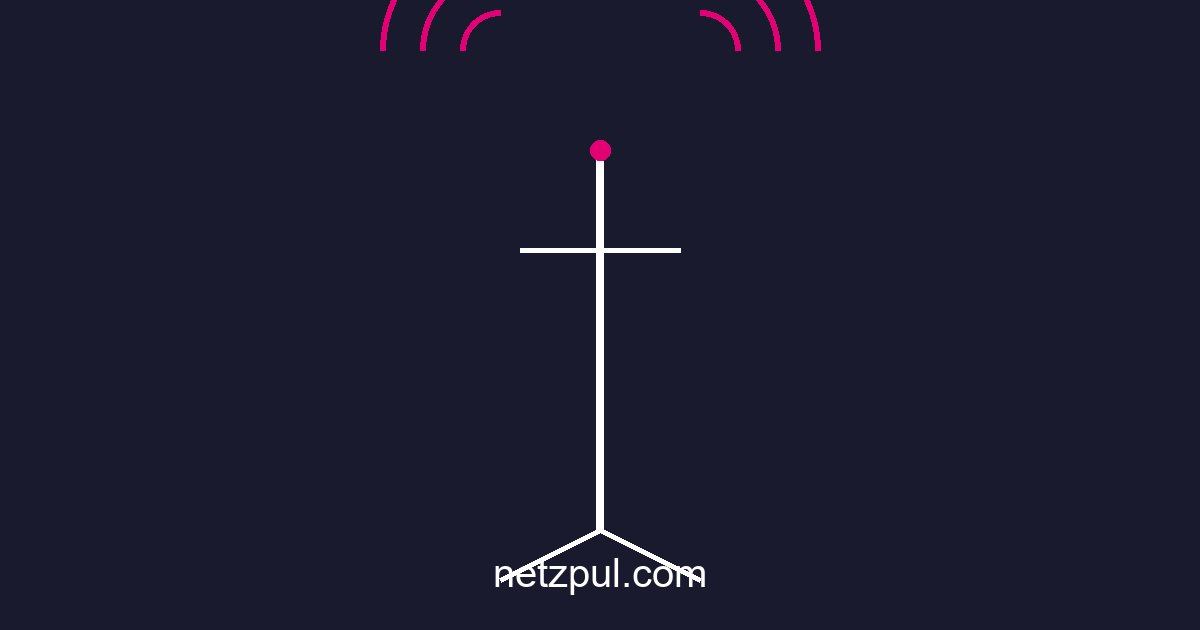
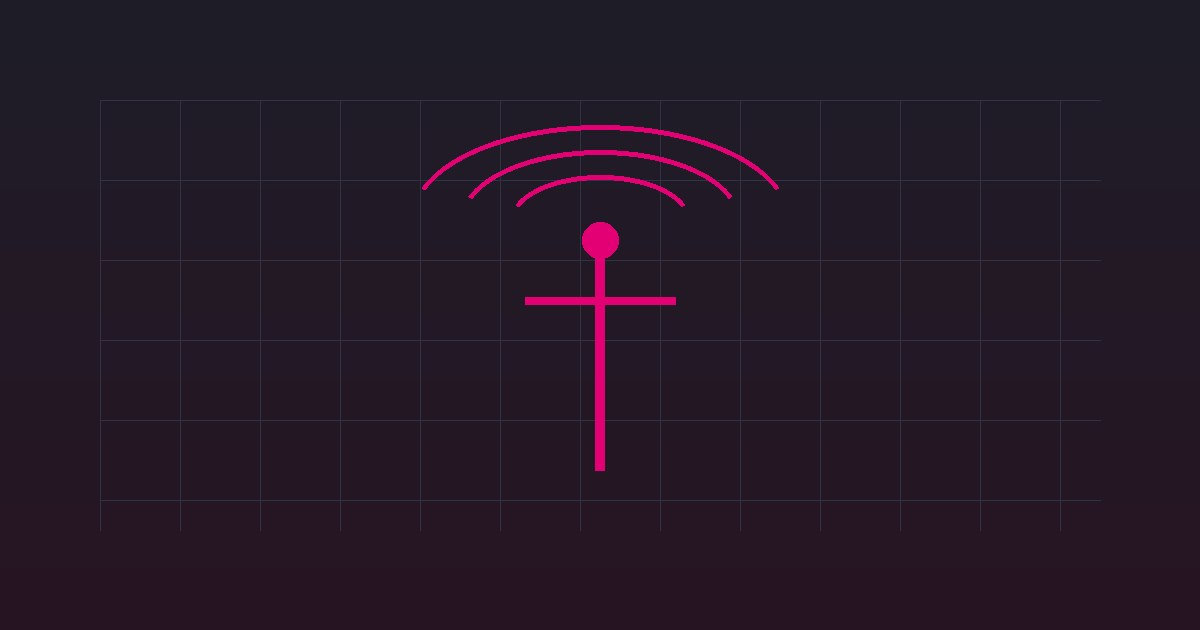
Add category-specific article images
- Generate 11 category images (cat-telekom, cat-5g-tech, cat-tarife, cat-esim, cat-prepaid, cat-o2, cat-vodafone, cat-blau, cat-tips, cat-congstar, cat-freenet)
- Update article.js: assign correct category image to each of 34 articles
- Regenerate default-article.jpg with proper network-themed design
- Fixes issue where all articles showed the same website favicon as thumbnail

diff --git a/js/article.js b/js/article.js
@@ -12,7 +12,7 @@ const articlesData = {
                         "title": "Deutsche Telekom kündigt neue 5G-Initiative an",
                         "date": "2026-02-01",
                         "excerpt": "Die Deutsche Telekom hat heute eine neue 5G-Initiative angekündigt, die Millionen von Kunden zugutekommen wird.",
-                    "image": "images/default-article.jpg",
+                    "image": "images/cat-telekom.jpg",
                     "file": "deutsche-telekom-kuendigt-neue-5g-initiative-an.md"
                     },
                     {
@@ -20,7 +20,7 @@ const articlesData = {
                         "title": "Telekom berichtet von Rekordjahr 2025",
                         "date": "2025-05-23",
                         "excerpt": "Die Deutsche Telekom blickt auf ein erfolgreiches Geschäftsjahr 2025 zurück.",
-                    "image": "images/default-article.jpg",
+                    "image": "images/cat-telekom.jpg",
                     "file": "telekom-berichtet-von-rekordjahr-2025.md"
                     },
                     {
@@ -28,7 +28,7 @@ const articlesData = {
                         "title": "Telekom startet 5G-Netz in weiteren Städten",
                         "date": "2026-03-27",
                         "excerpt": "Die Deutsche Telekom hat den 5G-Ausbau in weiteren deutschen Städten gestartet.",
-                    "image": "images/default-article.jpg",
+                    "image": "images/cat-telekom.jpg",
                     "file": "telekom-startet-5g-netz-in-weiteren-staedten.md"
                     },
                     {
@@ -36,7 +36,7 @@ const articlesData = {
                         "title": "Telekom testet 6G-Technologie in Deutschland",
                         "date": "2026-02-10",
                         "excerpt": "Die Deutsche Telekom hat begonnen, erste 6G-Technologien in Deutschland zu testen.",
-                    "image": "images/default-article.jpg",
+                    "image": "images/cat-telekom.jpg",
                     "file": "telekom-testet-6g-technologie-in-deutschland.md"
                     }
                 ]
@@ -49,7 +49,7 @@ const articlesData = {
                         "title": "5G Netzwerk-Optimierung 2026: Praktische Tipps",
                         "date": "2026-05-08",
                         "excerpt": "2026年最新5G网络优化技巧，帮助您提升网络速度和稳定性。包含设置建议和故障排除。",
-                    "image": "images/default-article.jpg",
+                    "image": "images/cat-5g-tech.jpg",
                     "file": "5g-netzwerk-optimierung-2026.md"
                     },
                     {
@@ -57,7 +57,7 @@ const articlesData = {
                         "title": "5G-SA: Standalone-Architektur bei Telekom",
                         "date": "2024-11-13",
                         "excerpt": "Die Deutsche Telekom rollt die 5G Standalone-Architektur bundesweit aus.",
-                    "image": "images/default-article.jpg",
+                    "image": "images/cat-5g-tech.jpg",
                     "file": "5g-sa-standalone-architektur-bei-telekom.md"
                     },
                     {
@@ -65,7 +65,7 @@ const articlesData = {
                         "title": "Carrier Aggregation: Telekom bündelt Frequenzen",
                         "date": "2025-06-27",
                         "excerpt": "Carrier Aggregation wird von der Telekom eingeführt, um die Datenraten zu erhöhen.",
-                    "image": "images/default-article.jpg",
+                    "image": "images/cat-5g-tech.jpg",
                     "file": "carrier-aggregation-telekom-buendelt-frequenzen.md"
                     },
                     {
@@ -73,7 +73,7 @@ const articlesData = {
                         "title": "Edge Computing: Telekom baut Rechenzentren aus",
                         "date": "2025-10-06",
                         "excerpt": "Edge Computing wird von der Telekom für geringe Latenzzeiten genutzt.",
-                    "image": "images/default-article.jpg",
+                    "image": "images/cat-5g-tech.jpg",
                     "file": "edge-computing-telekom-baut-rechenzentren-aus.md"
                     },
                     {
@@ -81,7 +81,7 @@ const articlesData = {
                         "title": "Massive MIMO: Telekom setzt auf neue Antennentechnik",
                         "date": "2025-04-18",
                         "excerpt": "Massive MIMO-Technologie wird von der Deutschen Telekom eingeführt.",
-                    "image": "images/default-article.jpg",
+                    "image": "images/cat-5g-tech.jpg",
                     "file": "massive-mimo-telekom-setzt-auf-neue-antennentechni.md"
                     }
                 ]
@@ -94,7 +94,7 @@ const articlesData = {
                         "title": "MagentaMobil Tarif-Familie im Überblick",
                         "date": "2025-02-19",
                         "excerpt": "Alle MagentaMobil Tarife der Deutschen Telekom im detaillierten Überblick.",
-                    "image": "images/default-article.jpg",
+                    "image": "images/cat-tarife.jpg",
                     "file": "magentamobil-tarif-familie-im-ueberblick.md"
                     },
                     {
@@ -102,7 +102,7 @@ const articlesData = {
                         "title": "Telekom senkt Preise für Datentarife",
                         "date": "2026-04-30",
                         "excerpt": "Die Deutsche Telekom hat die Preise für ihre Datentarife gesenkt.",
-                    "image": "images/default-article.jpg",
+                    "image": "images/cat-tarife.jpg",
                     "file": "telekom-senkt-preise-fuer-datentarife.md"
                     },
                     {
@@ -110,7 +110,7 @@ const articlesData = {
                         "title": "Neue Familien-Tarife bei Telekom",
                         "date": "2026-03-22",
                         "excerpt": "Die Deutsche Telekom führt neue Familien-Tarife mit attraktiven Konditionen ein.",
-                    "image": "images/default-article.jpg",
+                    "image": "images/cat-tarife.jpg",
                     "file": "neue-familien-tarife-bei-telekom.md"
                     },
                     {
@@ -118,7 +118,7 @@ const articlesData = {
                         "title": "Telekom bietet gratis Monat für Neukunden",
                         "date": "2026-01-27",
                         "excerpt": "Neukunden erhalten bei der Deutschen Telekom einen Monat gratis.",
-                    "image": "images/default-article.jpg",
+                    "image": "images/cat-tarife.jpg",
                     "file": "telekom-bietet-gratis-monat-fuer-neukunden.md"
                     }
                 ]
@@ -136,7 +136,7 @@ const articlesData = {
                         "title": "eSIM komplettGuide 2026: Alles was Sie wissen müssen",
                         "date": "2026-05-08",
                         "excerpt": "eSIM komplettGuide 2026: Alles über eSIM-Technologie, Aktivierungsmethoden, Vergleich mit physischen SIMs und Zukunftstrends.",
-                    "image": "images/default-article.jpg",
+                    "image": "images/cat-esim.jpg",
                     "file": "esim-komplettguide-2026.md"
                     },
                     {
@@ -144,7 +144,7 @@ const articlesData = {
                         "title": "eSIM: So aktivieren Sie die elektronische SIM-Karte",
                         "date": "2026-02-05",
                         "excerpt": "Eine Schritt-für-Schritt-Anleitung zur Aktivierung einer eSIM.",
-                    "image": "images/default-article.jpg",
+                    "image": "images/cat-esim.jpg",
                     "file": "esim-so-aktivieren-sie-die-elektronische-sim-karte.md"
                     },
                     {
@@ -152,7 +152,7 @@ const articlesData = {
                         "title": "eSIM vs. Physikalische SIM: Was ist besser?",
                         "date": "2025-03-10",
                         "excerpt": "Der große Vergleich zwischen moderner eSIM-Technologie und traditionellen SIM-Karten.",
-                    "image": "images/default-article.jpg",
+                    "image": "images/cat-esim.jpg",
                     "file": "esim-vs-physikalische-sim.md"
                     },
                     {
@@ -160,7 +160,7 @@ const articlesData = {
                         "title": "iSIM vs eSIM: Was ist der Unterschied?",
                         "date": "2026-01-22",
                         "excerpt": "iSIM und eSIM werden in diesem Artikel detailliert verglichen.",
-                    "image": "images/default-article.jpg",
+                    "image": "images/cat-esim.jpg",
                     "file": "isim-vs-esim-was-ist-der-unterschied.md"
                     }
                 ]
@@ -173,7 +173,7 @@ const articlesData = {
                         "title": "Die besten Prepaid-Tarife 2026",
                         "date": "2026-02-21",
                         "excerpt": "Eine Übersicht der besten Prepaid-Tarife im Jahr 2026.",
-                    "image": "images/default-article.jpg",
+                    "image": "images/cat-prepaid.jpg",
                     "file": "die-besten-prepaid-tarife-2026.md"
                     },
                     {
@@ -181,7 +181,7 @@ const articlesData = {
                         "title": "Prepaid vs Postpaid: Vor- und Nachteile",
                         "date": "2024-05-14",
                         "excerpt": "Prepaid- und Postpaid-Tarife werden in diesem Artikel verglichen.",
-                    "image": "images/default-article.jpg",
+                    "image": "images/cat-prepaid.jpg",
                     "file": "prepaid-vs-postpaid-vor--und-nachteile.md"
                     },
                     {
@@ -189,7 +189,7 @@ const articlesData = {
                         "title": "EU-Roaming bei Prepaid-Karten",
                         "date": "2025-03-13",
                         "excerpt": "EU-Roaming ist bei den meisten Prepaid-Karten inklusive.",
-                    "image": "images/default-article.jpg",
+                    "image": "images/cat-prepaid.jpg",
                     "file": "eu-roaming-bei-prepaid-karten.md"
                     }
                 ]
@@ -202,7 +202,7 @@ const articlesData = {
                         "title": "Datenvolumen sparen: 10 praktische Tipps",
                         "date": "2026-04-14",
                         "excerpt": "Zehn praktische Tipps, um Datenvolumen zu sparen.",
-                    "image": "images/default-article.jpg",
+                    "image": "images/cat-tips.jpg",
                     "file": "datenvolumen-sparen-10-praktische-tipps.md"
                     },
                     {
@@ -210,7 +210,7 @@ const articlesData = {
                         "title": "Datenschutz auf dem Smartphone",
                         "date": "2026-04-20",
                         "excerpt": "Tipps zum Schutz der Privatsphäre auf dem Smartphone.",
-                    "image": "images/default-article.jpg",
+                    "image": "images/cat-tips.jpg",
                     "file": "datenschutz-auf-dem-smartphone.md"
                     }
                 ]
@@ -228,7 +228,7 @@ const articlesData = {
                         "title": "O2 Tarife 2026: Der große Vergleich",
                         "date": "2026-05-08",
                         "excerpt": "Suchen Sie nach einem neuen Mobilfunktarif bei O2? In diesem ausführlichen Vergleich stellen wir Ihnen die besten O2 Tarife 2026 vor.",
-                    "image": "images/default-article.jpg",
+                    "image": "images/cat-o2.jpg",
                     "file": "o2-tarife-2026-der-große-vergleich.md"
                     },
                     {
@@ -236,7 +236,7 @@ const articlesData = {
                         "title": "O2 5G Netz: Abdeckung und Geschwindigkeit im Test",
                         "date": "2026-05-08",
                         "excerpt": "O2 hat in den letzten Jahren massiv in den 5G-Ausbau investiert. Wir testen die O2 5G-Abdeckung und messen die Geschwindigkeiten.",
-                    "image": "images/default-article.jpg",
+                    "image": "images/cat-o2.jpg",
                     "file": "o2-5g-netz-abdeckung-und-geschwindigkeit-im-test.md"
                     }
                 ]
@@ -249,7 +249,7 @@ const articlesData = {
                         "title": "blau Mobilfunk: Günstige Tarife im O2-Netz",
                         "date": "2026-05-08",
                         "excerpt": "blau Mobilfunk bietet faire Prepaid-Tarife im starken O2-Netz. In diesem Test zeigen wir, ob sich blau lohnt.",
-                    "image": "images/default-article.jpg",
+                    "image": "images/cat-blau.jpg",
                     "file": "blau-mobilfunk-günstige-tarife-im-o2-netz.md"
                     },
                     {
@@ -257,7 +257,7 @@ const articlesData = {
                         "title": "blau Prepaid Tarife im Detail-Test",
                         "date": "2026-05-08",
                         "excerpt": "blau Prepaid-Tarife sind bekannt für ihre Transparenz und Fairness. Wir prüfen alle blau Prepaid-Tarife im O2-Netz.",
-                    "image": "images/default-article.jpg",
+                    "image": "images/cat-blau.jpg",
                     "file": "blau-prepaid-tarife-im-detail-test.md"
                     }
                 ]
@@ -270,7 +270,7 @@ const articlesData = {
                         "title": "Vodafone Tarife 2026: Welcher ist der Richtige?",
                         "date": "2026-05-08",
                         "excerpt": "Vodafone ist einer der größten Mobilfunkanbieter in Deutschland. Wir vergleichen die besten Vodafone Tarife 2026.",
-                    "image": "images/default-article.jpg",
+                    "image": "images/cat-vodafone.jpg",
                     "file": "vodafone-tarife-2026-welcher-ist-der-richtige.md"
                     },
                     {
@@ -278,7 +278,7 @@ const articlesData = {
                         "title": "Vodafone 5G: Das leistet das Netz wirklich",
                         "date": "2026-05-08",
                         "excerpt": "Vodafone hat massiv in den 5G-Ausbau investiert. Wir testen das Vodafone 5G-Netz und zeigen, wie schnell es wirklich ist.",
-                    "image": "images/default-article.jpg",
+                    "image": "images/cat-vodafone.jpg",
                     "file": "vodafone-5g-das-leistet-das-netz-wirklich.md"
                     }
                 ]
@@ -291,7 +291,7 @@ const articlesData = {
                         "title": "otelo: Günstige Allnet-Flat im O2-Netz",
                         "date": "2026-05-08",
                         "excerpt": "otelo bietet attraktive Tarife ohne versteckte Kosten im O2-Netz. Wir testen, ob sich otelo lohnt.",
-                    "image": "images/default-article.jpg",
+                    "image": "images/cat-o2.jpg",
                     "file": "otelo-günstige-allnet-flat-im-o2-netz.md"
                     },
                     {
@@ -299,7 +299,7 @@ const articlesData = {
                         "title": "freenet Funk: Flexibel telefonieren ohne Vertrag",
                         "date": "2026-05-08",
                         "excerpt": "freenet Funk bietet innovative Prepaid-Tarife im O2-Netz ohne langfristige Vertragsbindung.",
-                    "image": "images/default-article.jpg",
+                    "image": "images/cat-freenet.jpg",
                     "file": "freenet-funk-flexibel-telefonieren-ohne-vertrag.md"
                     },
                     {
@@ -307,7 +307,7 @@ const articlesData = {
                         "title": "freenet 5G: Highspeed-Internet unterwegs",
                         "date": "2026-05-08",
                         "excerpt": "Mit freenet 5G Highspeed-Internet unterwegs nutzen – welche Tarife sind verfügbar und wie schnell sind sie?",
-                    "image": "images/default-article.jpg",
+                    "image": "images/cat-freenet.jpg",
                     "file": "freenet-5g-highspeed-internet-unterwegs.md"
                     },
                     {
@@ -315,7 +315,7 @@ const articlesData = {
                         "title": "congstar: Günstig telefonieren im Telekom-Netz",
                         "date": "2026-05-08",
                         "excerpt": "congstar bietet faire Preise für das qualitativ hochwertige Telekom-Netz. Lohnt sich congstar?",
-                    "image": "images/default-article.jpg",
+                    "image": "images/cat-congstar.jpg",
                     "file": "congstar-günstig-telefonieren-im-telekom-netz.md"
                     },
                     {
@@ -323,7 +323,7 @@ const articlesData = {
                         "title": "congstar Prepaid: Die besten Tarife im Überblick",
                         "date": "2026-05-08",
                         "excerpt": "congstar Prepaid bietet flexible Tarife im Telekom-Netz ohne langfristige Vertragsbindung.",
-                    "image": "images/default-article.jpg",
+                    "image": "images/cat-congstar.jpg",
                     "file": "congstar-prepaid-die-besten-tarife-im-überblick.md"
                     },
                     {
@@ -331,7 +331,7 @@ const articlesData = {
                         "title": "klarmobil: Transparente Tarife im O2-Netz",
                         "date": "2026-05-08",
                         "excerpt": "klarmobil bietet klare Preise ohne versteckte Kosten im O2-Netz. Wir testen alle verfügbaren Tarife.",
-                    "image": "images/default-article.jpg",
+                    "image": "images/cat-o2.jpg",
                     "file": "klarmobil-transparente-tarife-im-o2-netz.md"
                     }
                 ]